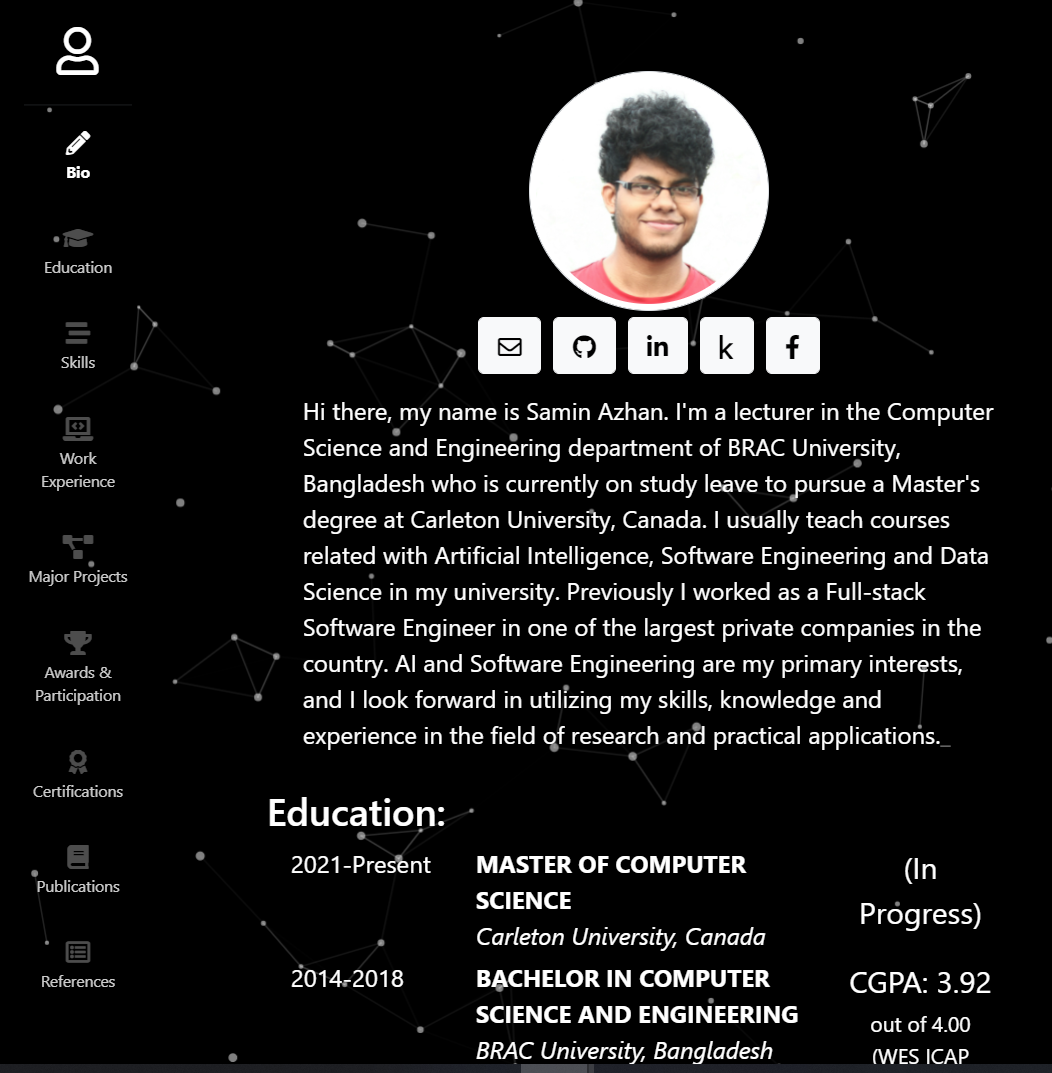
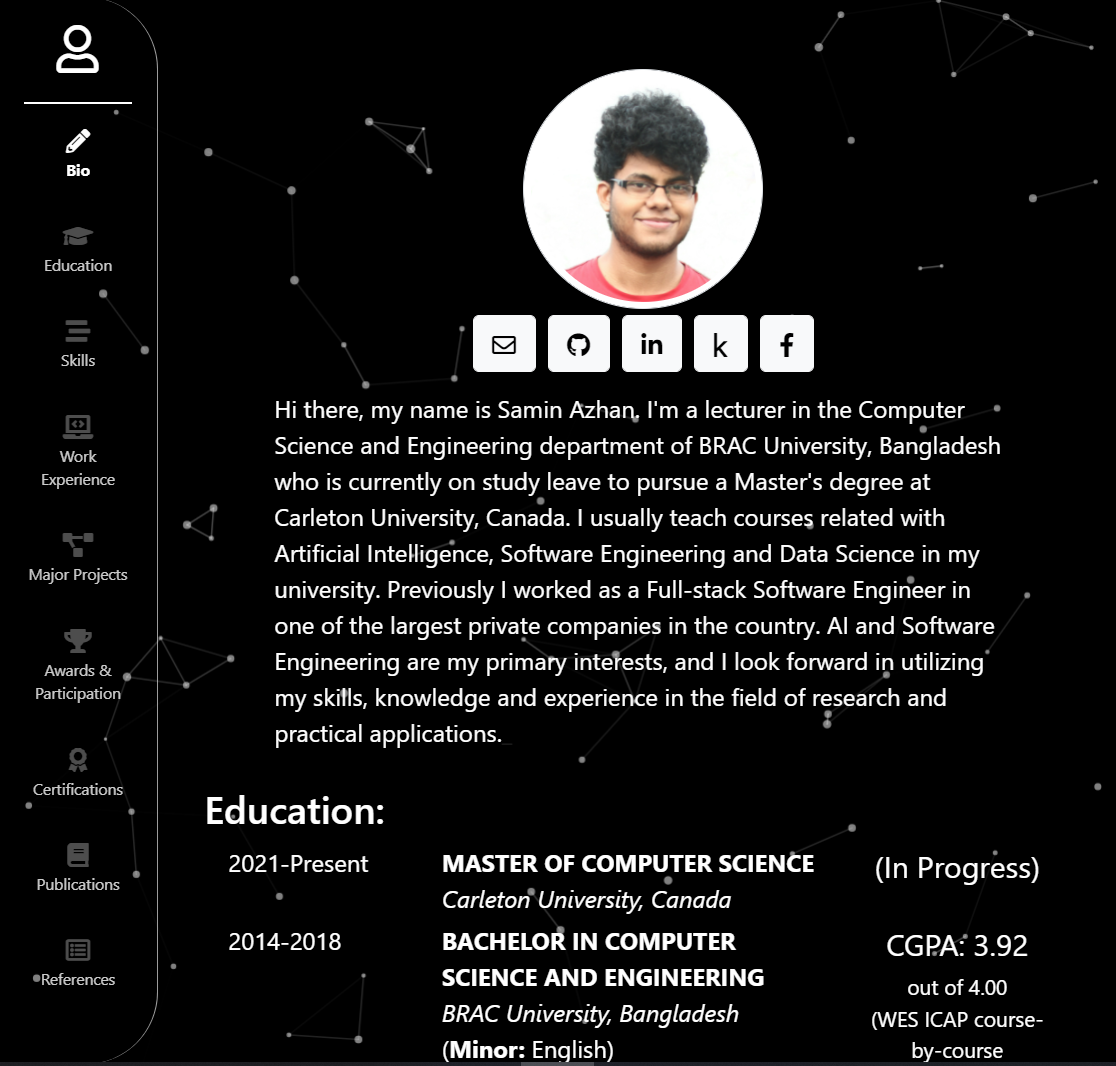
Fixed scaling issue for different screens.

diff --git a/src/app/app.component.html b/src/app/app.component.html
@@ -1,9 +1,9 @@
 <app-ts-particles></app-ts-particles>
 <div class="row w-100">
-  <div class="col-3">
+  <div class="col-3 col-sm-2 col-md-3 col-lg-3">
     <app-sidebar></app-sidebar>
   </div>
-  <div class="col-lg-8 col-9 position-relative text-white ps-4 ps-sm-0 ps-md-5 ps-lg-0">
+  <div class="col-9 col-sm-10 col-md-9 col-lg-8 position-relative text-white ps-4 ps-sm-4 ps-md-5 ps-lg-0">
     <app-bio id="bio"></app-bio>
     <app-education id="education"></app-education>
     <app-skills id="skills"></app-skills>
